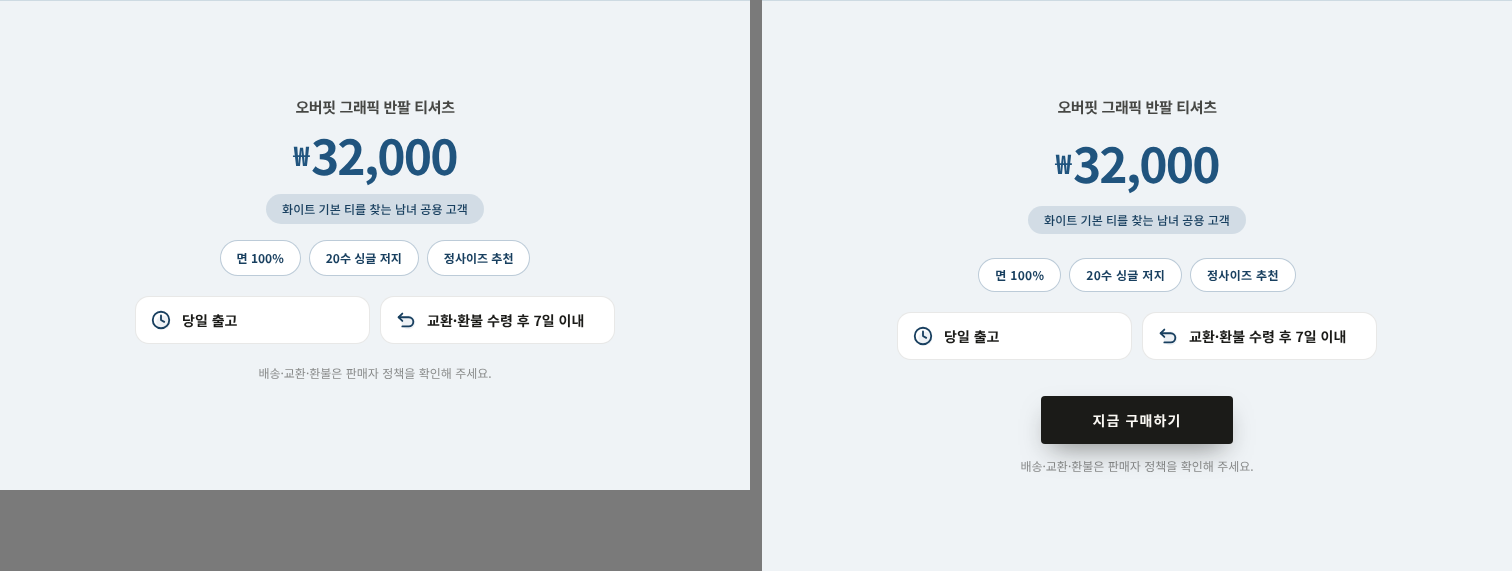
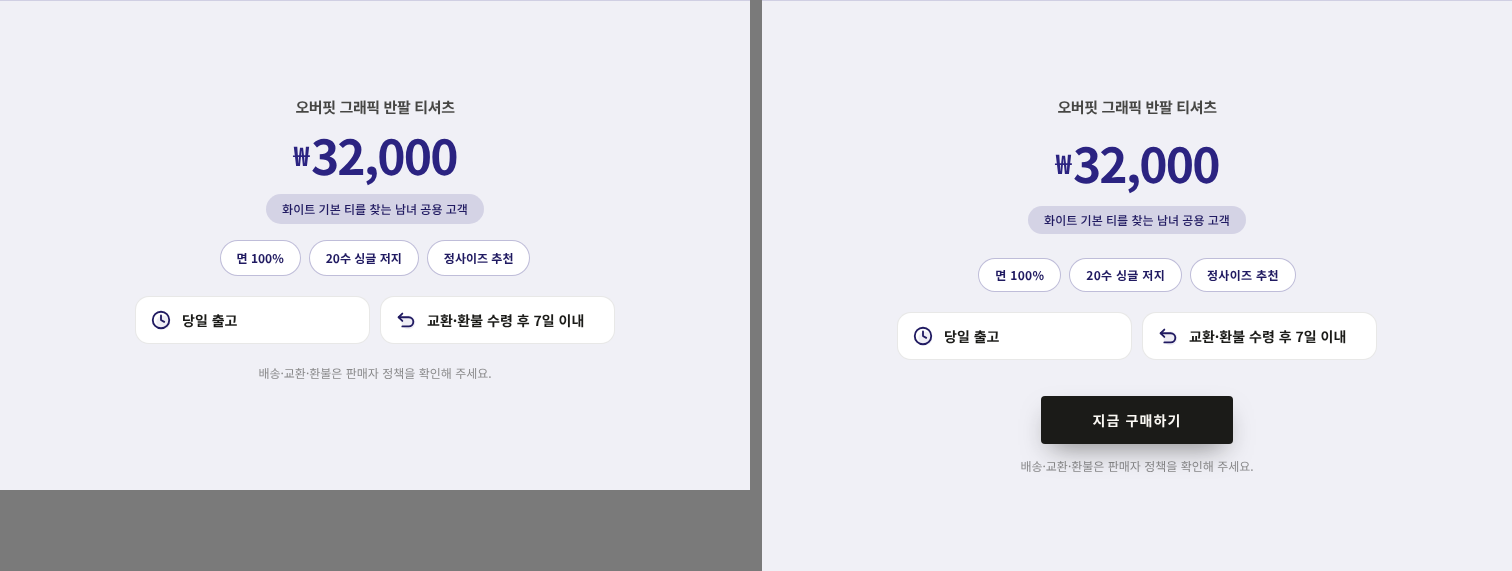
445차 7: 검증·보고서 — 배너 제목을 제목 위계 토큰(26·800)으로(R16 제목 스타일 4종 방지), 최종 라이브↔export 재측정, review/445cha-report.md
- 린트 82.8/74(전·후 동일, 같은 픽스처 기준), 회귀 94/94, off 문자열 diff 0(export·라이브·섹션 단독 946), tsc 0, R16/R17 0/0
- 보고서: push·라이브 구동 근거·더미 환경값·차이 표·next build·눈 검수 요약, 새 발견(노랑~초록 R7), PC 체크리스트 갱신본

Claude-Session: https://claude.ai/code/session_01EHxTxQ3BfLrCfLByhLFoYc

diff --git a/scripts/regression/legacy-rhythm-445.ts b/scripts/regression/legacy-rhythm-445.ts
@@ -141,6 +141,21 @@ export async function run(): Promise<string[]> {
     if (nos.some((n, k) => n !== k + 1)) fails.push(`${id}: 화면 순서 번호가 1부터 이어지지 않음 ${nos.join(",")}`);
   }
 
+  // ⑥ 445차 1·7 — 일러스트 배너 제목은 제목 위계 '대'(26·800) 토큰을 라이브·export가 같이 읽는다(굵기 700 한 종이 늘어 제목 스타일이 4종이 되던 것 방지)
+  {
+    const f = corpus().find(([id]) => id === "fx-compare-beauty")![1];
+    const exp = exportHtmlOf(f);
+    const m = /<section[^>]*class="pagzly-illustration-banner"[\s\S]*?<h2 style="([^"]*)"/.exec(exp);
+    if (!m) fails.push("export 일러스트 배너 제목이 없음");
+    else if (!/font-size:26px/.test(m[1]!) || !/font-weight:800/.test(m[1]!)) fails.push(`export 배너 제목이 heading-large(26·800)가 아님 «${m[1]}»`);
+    const a2 = exportArgsOf(readSession(f));
+    const budgeted = applySectionDisplayBudget(a2.category, a2.sections ?? [], { chartRemoved: comparisonPolicyRemovesChart(a2.claimFacts) });
+    const live = renderToStaticMarkup(React.createElement(R as never, { sections: budgeted, imageUrls: a2.imageUrls ?? [], category: a2.category, theme: a2.theme, productName: a2.productName, brandName: a2.brandName, stylePackId: a2.stylePackId, imageHashByUrl: a2.imageHashByUrl, imageOrigins: a2.imageOrigins, imageRoles: a2.imageRoles, imageTags: a2.imageTags, hasSizeInfo: a2.hasSizeInfo, claimFacts: a2.claimFacts } as never));
+    const lm = /<h2 class="[^"]*font-heading[^"]*"[^>]*style="([^"]*)"/.exec(live.slice(live.indexOf("aspect-video")));
+    if (!lm) fails.push("라이브 일러스트 배너 제목을 못 찾음");
+    else if (!/font-size:26px/.test(lm[1]!) || !/font-weight:800/.test(lm[1]!)) fails.push(`라이브 배너 제목이 heading-large(26·800)가 아님 «${lm[1]}»`);
+  }
+
   // ④ export DOM: 표식 달린 섹션의 위 여백이 표식 값
   const b = await launch();
   for (const [id, exp, pads] of forDom) {

diff --git a/lib/export-detail-html.ts b/lib/export-detail-html.ts
@@ -1929,7 +1929,7 @@ function sectionHtml(
           <div style="position:relative;max-width:520px;padding:20px 28px">
             <div aria-hidden="true"${DESIGN_V4_ENABLED ? ' class="pagzly-banner-scrim"' : ""} style="position:absolute;inset:${DESIGN_V4_ENABLED ? BANNER_SCRIM_INSET_V4 : "-10%"};border-radius:${DESIGN_V4_ENABLED ? RADIUS_V4.md : 20}px;pointer-events:none;background:rgba(27,27,24,.9);box-shadow:0 8px 40px rgba(27,27,24,.4)"></div>
             <div style="position:relative;z-index:1">
-              ${section.heading ? (DESIGN_V4_ENABLED ? `<h2 style="font-family:${DETAIL_FONT_STACK.heading};font-size:${titleSizeCss("banner")};font-weight:700;line-height:1.15;letter-spacing:-0.03em;margin:0;color:#fff">${esc(section.heading)}</h2>` : dh2(category, esc(section.heading), `font-size:${FONT_SIZE.sectionLg};margin:0`)) : ""}
+              ${section.heading ? (DESIGN_V4_ENABLED ? `<h2 style="font-family:${DETAIL_FONT_STACK.heading};${tokenStyle("heading-large")};margin:0;color:#fff">${esc(section.heading)}</h2>` : dh2(category, esc(section.heading), `font-size:${FONT_SIZE.sectionLg};margin:0`)) : ""}
               ${section.body ? `<p style="margin:12px 0 0;font-size:${FONT_SIZE.body};opacity:.95;max-width:480px">${esc(section.body)}</p>` : ""}
             </div>
           </div>

diff --git a/components/DetailSectionRenderer.tsx b/components/DetailSectionRenderer.tsx
@@ -4459,6 +4459,7 @@ function renderSection(
                     value={section.heading ?? ""}
                     onChange={(heading) => edit?.onChange(index, { ...section, heading })}
                     className={`${TYPO.bannerTitle} ${getCategoryRhythm(category).heroTitleExtra}`}
+                    style={DESIGN_V4_ENABLED ? tokenStyleObject("heading-large") : undefined}
                   />
                 )}
                 {(section.body || edit?.enabled) && (

diff --git a/review/445cha-report.md b/review/445cha-report.md
@@ -1,0 +1,123 @@
+# 445차 보고서 — 라이브 화면 클라우드 구동·시각 대조·리듬·색·섹션 마감
+
+시작 문장: "445차 시작: 라이브 화면 클라우드 구동과 시각 대조". 선행: 444차(`eee0bdd`). 유료 API 0회, 실제 키·토큰 0, `.env*` 열람·생성·커밋 0.
+
+## 0. 맨 위 요약
+| 항목 | 결과 |
+|---|---|
+| **push** | 항목마다 `cloud-work`에 push **모두 성공(403 없음)**. main push 없음. 커밋: 지시서 `429f2df` → 1 `26fd2cd` → 2 `a10c10c` → 3 `81148f3` → 4 `8142d28` → 5 `1208a0c` → 6 `608aace` → 7 (이 보고서 포함 마지막 커밋) |
+| **라이브 구동** | **성공.** 더미 환경값만으로 `next dev` 부팅 → `/dev/detail-preview?capture=session`이 HTTP 200, 합성 픽스처 21종을 sessionStorage로 넣어 클라우드 Chromium으로 라이브(React/Tailwind) 렌더를 캡처했다. 근거: 픽스처별 루트 크기·화면 수(예: `fx-compare-beauty` 390×12656px = 15화면, `fx-tier-sparse-tech-1p-noprice` 390×4179px = 5화면), 라이브 캡처 21종×390px + 6종×750px 시트(로컬 `review/445-verify/live/`, 20MB라 커밋하지 않음), 대조 그림은 커밋(`review/445-verify/live-vs-export*/`). |
+| **더미 환경값(전부)** | `NEXT_PUBLIC_SUPABASE_URL=http://127.0.0.1:54321` · `NEXT_PUBLIC_SUPABASE_ANON_KEY=dummy` · `NEXT_PUBLIC_SITE_URL=http://127.0.0.1:3100`(운영 빌드 확인은 3101) · `NEXT_TELEMETRY_DISABLED=1` · off 확인용 `NEXT_PUBLIC_DESIGN_V4=off`. 모두 명령 앞 인라인. 키처럼 보이는 문자열 없음. 외부 요청은 캡처 브라우저에서 전부 차단(같은 출처만). |
+| **라이브↔export 차이** | 21종×390px 짝 497쌍 중 차이 26쌍, 750px 6종도 같은 종류. 수정 **5종**(배너 제목·스크림 반경, stat 반경, POINT 카드 제목 태그, 숫자 제목 아래 여백) + 이후 항목에서 리듬·후기 카드·캡션. 남긴 것 **4종**(갤러리 여백 주인, 구매 섹션(결제 버튼), 도구 휴리스틱, 사진 자리 면). 표: §1. |
+| **next build** | **성공**, 36초(Next.js 16.4.2 Turbopack, 컴파일 14.3초·타입 17.5초·정적 51쪽). 코드·환경값 문제 둘 다 없음. 기존 경고 1건(`middleware` → `proxy` 규약 이름). 운영 빌드 `next start`에서 `/dev/*`는 404(취약점 없음). §2. |
+| **눈 검수 요약** | 5종(뷰티·패션·테크·생활·빈약) 첫 3화면 + 750 전체를 봄. 아쉬운 점 5가지(위계·색·사진·여백/밀도·후킹) — 번호 뒤섞임 수정, 큰 항목 7개는 다음 차수 후보. §6. |
+| 회귀 | **94/94** (444차 91 + 신규 3). |
+| off 증명 | export 21종·라이브 21종·섹션 단독 946건 **diff 0**(기준 = `eee0bdd` 코드 + 현재 픽스처, §7). |
+| tsc | 출력 0줄(오류 0). |
+
+## 1. 라이브 구동과 시각 대조 (항목 1)
+### 구동
+- `NEXT_PUBLIC_SUPABASE_URL=… NEXT_PUBLIC_SUPABASE_ANON_KEY=dummy NEXT_PUBLIC_SITE_URL=… npx next dev -p 3100` → 부팅 성공. 미들웨어는 더미 주소로 사용자 조회를 시도하지만 `/dev` 경로는 200으로 렌더된다. 개발 경로를 환경값 없이 돌게 고치는 코드 변경은 하지 않았다.
+- 새 도구(커밋): `scripts/live-lib.ts`(픽스처 → 개발 미리보기 preset, 표시 예산 선적용, 외부 요청 차단, 스크롤 reveal·gsap 전환 고정), `scripts/live-capture.ts`(루트 844px 단위 캡처·시트), `scripts/live-vs-export.ts`(섹션 단위 숫자 대조 + 나란히 그림), `scripts/live-audit.ts`(섹션 한 장 요소 단위 계산 스타일 대조).
+- 측정 함정 3개를 먼저 걸러냈다(차이가 아님): gsap 진입 scale 0.94→1이 끝나기 전 측정(폭 367/390처럼 보임), 개발 미리보기는 표시 예산·`chartRemoved` 미적용, 라이브 눈썹 라벨(`COMPARE`·`PRICE`)로 서명 불일치.
+
+### 차이 표
+수정(전부 v4 안, 쌍둥이 수정, off 문자열 diff 0):
+| 섹션 | 차이 | 분류 | 수정 |
+|---|---|---|---|
+| 일러스트 배너 제목 | export 28/800 ↔ 라이브 26.4/700 | 토큰 불일치(팩 굵기 `!important`) | 둘 다 제목 위계 '대' 토큰 26·800(`heading-large`)을 읽음 |
+| 배너 스크림 카드 | 반경 20 ↔ 16(≥640px 24) | 토큰 불일치 + 반응형 | export 16, 750px는 `@media` 한 줄로 24 |
+| 수치 카드 | 반경 16 ↔ 12 | 라이브 하드코딩 | `rounded-2xl` |
+| POINT 카드 | export 높이 +85px, 제목·본문 위계 역전 | info CSS `p:first-of-type`가 `<h3>` 제목 대신 본문을 제목으로 칠함 | v4+info에서 제목을 `<p>`로 |
+| "숫자로 보는 …" | export 높이 +21px | 내용 없는 제목 구간에 아래 여백이 남음 | v4+info+내용 없음이면 `margin-bottom:0` |
+
+남김(표 전체: `review/445-verify/live-vs-export/diff-table.md`):
+| 항목 | 이유 |
+|---|---|
+| 갤러리 위 여백 32/0 ↔ 0/0 (9쌍) | 여백을 가진 요소가 다름(섹션 vs 머리말 div). 높이·화면 동일(615=615) |
+| 구매 섹션 높이 +75~80px·버튼 반경(14쌍) | 라이브에는 "지금 구매하기" 결제 진입 버튼이 있고 export에는 없음. 결제·`cta_price` 구조 불변 규칙에 따라 손대지 않음 |
+| 도구 휴리스틱 제목 26/800 ↔ 30/900(2쌍) | 대조 도구가 가장 큰 글자를 제목으로 고르는 한계(실제 제목은 같음) |
+| 사용 방법 사진 자리 면 반경(1쌍) | export는 사진 뒤 `#eee` 자리 면이 있어 측정에 잡힘 |
+
+## 2. next build (항목 2)
+`review/445-verify/next-build.md`. 더미 환경값으로 성공(36초). 정적 프리렌더 목록에 `/dev/detail-preview`가 `○`로 보이지만 `next start`로 확인하니 `/dev/detail-preview`·`/dev/generating-overlay`는 404, `/login`은 200이었다. `.next`는 gitignore(커밋 안 함).
+
+## 3. 리듬 확장 (항목 3)
+- `lib/rhythm-v4.ts`에 섹션 타입 → 면·여백 표(`LEGACY_SECTION_V4`)를 한 곳에 두고 라이브·export가 같이 읽는다. 면 = 본문 순번의 패턴(A·D 흰 면, B·E 옅은 색 면, boldBlock 어두운 면, 구매 섹션 자기 면). 계획(`applyDisplayRules`)이 `topPads`(섹션 번호 → 32|48px)를 내보내면 라이브(`data-pz-top` 래퍼)·export(섹션 표식)가 같은 CSS 한 줄(`topPadCssV4`)로 적용. 임팩트도 앞이 이전 섹션인 같은 면이면 `tight`.
+- 측정(21종 export DOM): 저장소 지표 gapBig/gapUneven/3단 밖/급변은 **전 0 → 후 0**(정확히 같은 면 쌍만 세므로 이미 0). 느슨한 스캔(색 거리 ≤ 6)으로 보면 같은 면 이웃 간격 96 초과: 390px 3 → 3(임팩트↔임팩트, 규칙 밖), 750px 14 → 10. 이전 섹션 위 여백을 줄인 곳 7곳(7 픽스처, 값 32). 눈 검수 `review/445-verify/rhythm/*.png`(전|후) — 구획·위계 유지, 16px 좁아진 정도. 라이브도 같은 값 확인.
+- 한계: 이 규칙은 합성 21종에서는 효과가 작다(대부분 이미 면이 교대). 넓은 폭(750px) 간격은 3단 스케일 밖 값이라 "최선 노력".
+
+## 4. 히어로 색 중복·퀵포인트 틈 (항목 4)
+- **원인은 규칙이 아니라 입력**: 합성 픽스처 9종이 같은 기본 대표색 `#20547E`를 써서 `heroFaceColor`가 모두 같은 파란 면 `#1D79C4`를 냈다(실제 입력은 사진 지배색에서 나온다). 규칙은 그대로 두고 픽스처에 색상을 부여(`scripts/gen-fixture-themes.ts`, 실제 파이프라인 함수 `buildThemeFromHueWithNeutral`로 theme 전체 파생). 겹침: 같은 면 색 11/21 픽스처 → **2/21**(`compare-beauty`·`skincare-serum` 한 쌍). 표: `review/445-verify/hero-color/README.md`.
+- 같은 작업에서 **발견**: 노랑~초록 대표색(약 45~135°)이면 가격 기호·POINT 칩에서 린트 R7 대비가 3.0~4.3:1로 4.5:1 미달(§9-1). 그 색상대는 픽스처에서 피했다.
+- **퀵포인트 흰 띠 원인**: 퀵포인트 줄(섹션 하나가 한 줄)마다 "흰색 → 틴트" 그라데이션 배경이라 앞 줄은 틴트로 끝나고 뒤 줄은 흰색에서 다시 시작해 경계에 흰 띠가 보였다(픽셀 값으로 확인: 242,249,248 → 255,255,255). v4에서 줄 전체를 같은 단색 틴트로(`lib/design-v2.ts`). 회귀로 퀵 줄이 둘 이상인 DOM의 배경이 모두 같은 단색인지 확인.
+
+## 5. review_highlight와 라이브 전수 대조 (항목 5)
+`review/445-verify/live-audit.md`.
+- 픽스처: `archetype-compare-beauty`에 후기 요약 추가(`scripts/gen-fixture-reviews.ts`). 후기 파일 6줄(≥5)의 문장만 그대로(칭찬 3·아쉬움 2), 제목·위치는 서버 함수 → 새 문구 없음. 눈 검수 그림 `review-highlight-export-vs-live.png`: export·라이브 같은 모양, 높이 815 = 815.
+- 전수 대조(`scripts/live-audit.ts`): review_highlight·step_card·brand_story. brand_story 일치, step_card는 STEP 라벨 자간 한 건만 다름(v3 폰트 쌍 CSS가 라이브에만 걸림 — 남김), review_highlight는 카드 반경 12 → 16 수정.
+- **새로 드러난 결함(수정)**: 후기 캡션(분석 건수·"아쉬운 점" 머리말·건수 칩 등)이 11px·잉크 알파 0.4~0.5(면 위 약 2.6~3.5:1)로 라벨 하한 12px·4.5:1 미달이었다. 린트는 못 잡고(opacity·클래스 글자) 후기 섹션이 말뭉치에 없어 한 번도 안 보였다. v4에서 12px·알파 0.65 토큰, 라이브·export가 `reviewCaptionV4()` 한 함수를 읽음.
+- 하드코딩 값 목록(`live-audit.md`): 치환 3종, 남김 1종(step_card 사진 위 STEP 칩 10~11px — 대조 입력에 해당 형태가 없어 **미확인**).
+
+## 6. 디자이너 눈 (항목 6)
+`review/445-verify/designer-eye/README.md` — 5종 × 첫 3화면 + 750 전체.
+| 영역 | 아쉬운 점 | 처리 |
+|---|---|---|
+| 위계 | 아이브로우 번호 03→01→02로 뒤섞임 | **수정**(화면 순서 1부터, 21종 연속) |
+| 색 | 한 페이지에 연두·분홍·연보라·하늘 파스텔 4~5종 | 다음 차수(큰 항목) |
+| 사진 | 히어로 고스트 글자가 사진 가장자리에서 반쯤 잘림, 아치+스티커 문법 반복(사진 자체는 자리표시자라 미판단) | 다음 차수 |
+| 여백·밀도 | 같은 면 간격(3·4번 수정), 750px 간격, 페이지 끝 서식 없는 긴 평문 | 일부 수정, 나머지 다음 차수 |
+| 후킹 흐름 | "한눈에 보기" 같은 체크 아이콘 반복 | 다음 차수 |
+
+## 7. 검증
+| 항목 | 결과 |
+|---|---|
+| 회귀 | **94/94** — 신규 `legacy-rhythm-445`(면 표·면 키·topPads 불변식·라이브/export 같은 표식·번호 연속·배너 제목 토큰), `hero-quick-445`(히어로 색 다양성·픽스처 대표색 일치·퀵 줄 단색), `review-fixture-445`(후기 5건 이상·문장 그대로·생성기 일치·두 렌더 모두·카드 반경·캡션 토큰). 444차 `eye-fixes-444`의 배너 반경 정규식은 16으로 갱신 |
+| check-v4-off (export) | 21종 diff 0 (저장 세션 6종은 저장소에 없어 건너뜀) |
+| check-v4-off-live (라이브 렌더 문자열) | 21종 diff 0 |
+| 섹션 단독 off | 946건 diff 0 |
+| 라이브 캡처 off 비교 | **미실시**: 서버 2개(현재·`eee0bdd` worktree)를 띄우려 했으나 Turbopack이 worktree 밖 `node_modules` 심볼릭 링크를 거부. 대신 렌더 문자열 diff 0 + 이번 차수 `*.css` 변경 0줄(`git diff eee0bdd -- '*.css'`) |
+| off 기준 | `eee0bdd` 코드 worktree + **현재 픽스처**로 다시 저장(픽스처 대표색·후기 섹션이 바뀌어 입력이 달라졌으므로) — "코드만 차이"를 본 것 |
+| 문자열 패리티 | 회귀 `live-export-render` 등 통과 |
+| 린트(평균·최저) | 전(444 코드 + 현재 픽스처) **82.8 · 74** → 후 **82.8 · 74**. 중간에 배너 제목 굵기 700이 제목 스타일을 4종으로 늘려 R16 warn이 생겼다가(평균 82.0·최저 71) 토큰 26·800으로 되돌려 해소. 444차 보고서의 83.2/73은 이전 픽스처 기준이라 직접 비교하지 않음 |
+| R16 / R17 | 전·후 모두 0 / 0 |
+| gapBig / gapUneven / 3단 밖 / 급변 | 0 / 0 / 0 / 0 (전·후) |
+| tsc | 오류 0 |
+| 금지 기법 | export에 `:has()`·컨테이너 쿼리·`text-wrap`·`mix-blend-mode`·`clip-path`·`mask`·`-webkit-text-stroke` 추가 없음(`@media` 한 줄 추가뿐) |
+
+## 8. 지킨 규칙
+유료 호출 0, 실제 키 0, `.env*` 미접촉, 새 로그인·계정 0, Supabase·AI·결제 호출 0(외부 요청 차단), 마이그레이션 0, 결제 코드·편집 UI·인터랙션·`cta_price` 구조 변경 0, 새 문구·수치 0(후기는 판매자 파일 문장 그대로, 번호는 순서만), 폰트 추가 0, main push 0. 모든 변경 `DESIGN_V4` 안(off = `eee0bdd`와 동일). 임시 도구는 `scripts/_*.tmp.*`로 제외(저장소에 안 남김). 작업 중 `next dev`가 `AGENTS.md` 제목 줄을 자동 변경해 종료 시 되돌렸다.
+
+## 9. 새로 발견한 문제·주의
+1. **R7 대비(기존 결함)**: 대표색이 노랑~초록(약 45~135°)이면 가격 기호·"POINT 1" 칩 등이 4.5:1 미달(3.0~4.3:1). 이번 차수에 픽스처로 재현. 실제 사진 지배색이 이 색상대면 같은 문제가 난다. 가격 쪽은 결제 코드(`cta_price`) 구조를 건드리지 않고 색 규칙만 손봐야 해서 다음 차수로.
+2. **hydration 경고**(`/dev/detail-preview`): 서버 렌더는 기본 데모, 클라이언트는 sessionStorage 세션을 써서 생김. 개발 전용 경로 특성으로 판단했으나 결과 페이지 경로는 확인 못 함(PC 확인).
+3. `middleware` 규약 이름 deprecated 경고(`next build`) — 기존.
+4. 운영 빌드에서 `/dev/*` 404 확인(이상 없음).
+
+## 10. 미검증·한계
+- **실제 사진**: 합성 자리표시자라 사진 보정·오버레이·고스트 위 가독성 판단 불가.
+- **저장 세션 6종**: 저장소에 없음(이번에도 합성만).
+- 라이브 캡처 off 비교(위), step_card 사진 위 STEP 칩 계산 크기, v3 폰트 쌍 자간의 export 반영.
+- 클라우드 Chromium은 `/opt/pw-browsers` 헤드리스 셸을 `PLAYWRIGHT_BROWSERS_PATH` 임시 폴더로 링크해 사용(저장소 변경 없음). 라이브는 한 가지 브라우저(Chromium)만 봄.
+- `launch-smoke`·실제 환경값 `next start`·로그인·결제·AI 경로는 하지 않음.
+
+## 11. 다음 차수 후보
+1. 파스텔 4~5색 혼재 → 포인트색 1계열 + 중립(색 응집력). 2. 히어로 고스트 글자 잘림. 3. 750px 같은 면 간격. 4. 페이지 끝 평문 블록 정리. 5. "한눈에 보기" 아이콘 폴백 다양화. 6. step_card STEP 칩 크기·v3 폰트 쌍 자간 export 반영. 7. 노랑~초록 대표색 R7 대비(가격 기호·POINT 칩).
+
+## 12. PC에서 실행할 검증 체크리스트(444차 목록 갱신 — ✅ = 클라우드가 이미 확인, ▲ = 일부만)
+1. `git pull origin cloud-work` — 최신 커밋 이후 기록, 충돌 없음.
+2. `npm ci`
+3. ✅ `node scripts/build-detail-fonts.mjs` (클라우드에서 실행·눈 검수에 사용). PC에서도 생성 확인.
+4. ✅ `npx tsc --noEmit` — 오류 0(클라우드). PC 재확인.
+5. ✅ `npx tsx scripts/regression/run-all.ts` — **94/94**(클라우드). PC 재확인(Playwright 리비전 오류 시 `npx playwright install chromium`).
+6. ▲ off 증명: 클라우드는 `eee0bdd` worktree에서 기준을 저장해 diff 0 확인. PC는 438차 원본까지 거슬러 `check-v4-off.ts --write`·`check-v4-off-live.tsx --write` 후 비교. 라이브 캡처(브라우저) off 비교는 PC에서(서버 2개).
+7. ▲ `npx next build` — 클라우드는 **더미 환경값으로 성공**. PC는 **실제 환경값**으로 성공 확인.
+8. `launch-smoke`(기존 명령) — 53/53. (미실시)
+9. 저장 세션 6종: 패리티·428 DOM 24/24·750폭 가로 넘침 0. (저장 세션 없음 — PC)
+10. ▲ 눈 검수(PC 크롬): 클라우드는 합성 21종의 라이브를 390·750으로 봄(§1). PC는 **실제 사진·저장 세션**으로 — D1·D2·D4·FAQ·spec·비교표·후기 요약(캡션 12px)·사진 톤 오버레이·고스트 페이드·히어로 색(포화 면)·퀵포인트 줄 띠 없음·번호 01부터 연속.
+11. (신규) 노랑~초록 계열 상품 사진 1건으로 R7 대비(가격 기호·POINT 칩) 확인.
+12. (신규) 실제 환경에서 `/dev/detail-preview`가 404인지, 결과 페이지 경로에 hydration 경고가 없는지.
+13. 합격 시 434차(배포 직전 점검)로.
+
+## 13. 전체 상태
+v4 기본 on 판단은 444차와 같다: 코드·회귀 기준 가능, 플래그 off로 즉시 롤백(`eee0bdd` 문자열 동일), 결제·편집 UI 미수정. 이번 차수에 처음으로 **라이브 화면을 직접 보고** export와 숫자·그림으로 대조해 라이브 하드코딩 차이(반경 3종)·export 쪽 차이(배너 제목·POINT 카드 제목 태그·여백)를 맞췄고, 라이브↔export 구조 차이 중 남은 것은 결제 진입 버튼(의도)과 여백 소유 요소(시각 영향 없음)뿐이다. 남은 위험: 실제 사진·저장 세션·실제 환경 빌드(위 PC 10·7·9), 노랑~초록 대표색 대비(§9-1), 색 응집력(§11-1).

diff --git a/review/445-verify/live-vs-export/diff-table.md b/review/445-verify/live-vs-export/diff-table.md
@@ -31,3 +31,8 @@
 ## 라이브 콘솔
 - `/iteration-fixtures/01.jpg`·`02.jpg` 404: 개발 미리보기 기본 데모 이미지(세션 주입 전). 제품 코드 문제 아님.
 - hydration 불일치 경고 1건/페이지: 개발 미리보기가 서버 렌더에서는 기본 데모를, 클라이언트에서는 sessionStorage 세션을 쓰기 때문. 개발 전용 경로의 특성이고 결과 페이지 경로는 아님(미확인 — PC 확인 항목).
+
+## 최종 재측정(445차 마지막 코드, 더미 환경값 `next dev`)
+- 390px 21종: 짝지은 섹션 497, 차이 있는 짝 26 = 갤러리 여백 주인 9 + 구매 섹션(높이·반경) 14 + 도구 휴리스틱 제목 2 + STEP 사진 자리 면 반경 1 — 모두 위 "남긴 차이" 4종뿐. 수정한 종류(배너 제목·반경, stat 반경, POINT 카드, 숫자 제목 여백, 리듬 위 여백, 후기 카드 반경·캡션)는 재발 없음.
+- 750px 6종: export·라이브 섹션 수 일치, 차이는 같은 남긴 종류만(배너 스크림 반경 16 → 750px 24는 `@media (min-width:640px)` 한 줄로 맞춤).
+- 라이브 콘솔: 페이지당 5~7건 — 개발 미리보기 기본 데모 이미지 404 2건 + 개발 미리보기의 서버/클라이언트 세션 차이 hydration 경고 1건 등(제품 코드 아님, 위 "라이브 콘솔").

diff --git a/review/445-verify/live-vs-export/summary.md b/review/445-verify/live-vs-export/summary.md
@@ -1,6 +1,6 @@
 | 픽스처 | 폭 | export 섹션 | 라이브 섹션 | 짝 | 차이 있는 짝 | export만/라이브만 | 라이브 콘솔 오류 | 차이 종류 |
 |---|---|---|---|---|---|---|---|---|
-| fx-compare-beauty | 390 | 29 | 29 | 29 | 1 | 0/0 | 6 | 여백 |
+| fx-compare-beauty | 390 | 30 | 30 | 30 | 1 | 0/0 | 6 | 여백 |
 | fx-compare-fashion | 390 | 32 | 32 | 32 | 2 | 0/0 | 5 | 여백,높이,반경 |
 | fx-compare-tech | 390 | 26 | 26 | 26 | 1 | 0/0 | 5 | 높이 |
 | fx-fashion-bottom-denim | 390 | 28 | 28 | 28 | 3 | 0/0 | 5 | 여백,제목,높이,반경 |

diff --git a/review/445-verify/live-vs-export-750/summary.md b/review/445-verify/live-vs-export-750/summary.md
@@ -1,6 +1,6 @@
 | 픽스처 | 폭 | export 섹션 | 라이브 섹션 | 짝 | 차이 있는 짝 | export만/라이브만 | 라이브 콘솔 오류 | 차이 종류 |
 |---|---|---|---|---|---|---|---|---|
-| fx-compare-beauty | 750 | 29 | 29 | 29 | 1 | 0/0 | 6 | 여백 |
+| fx-compare-beauty | 750 | 30 | 30 | 30 | 1 | 0/0 | 6 | 여백 |
 | fx-compare-fashion | 750 | 32 | 32 | 32 | 2 | 0/0 | 5 | 여백,높이,반경 |
 | fx-compare-tech | 750 | 26 | 26 | 26 | 1 | 0/0 | 5 | 높이 |
 | fx-skincare-serum | 750 | 26 | 26 | 26 | 1 | 0/0 | 6 | 여백 |
